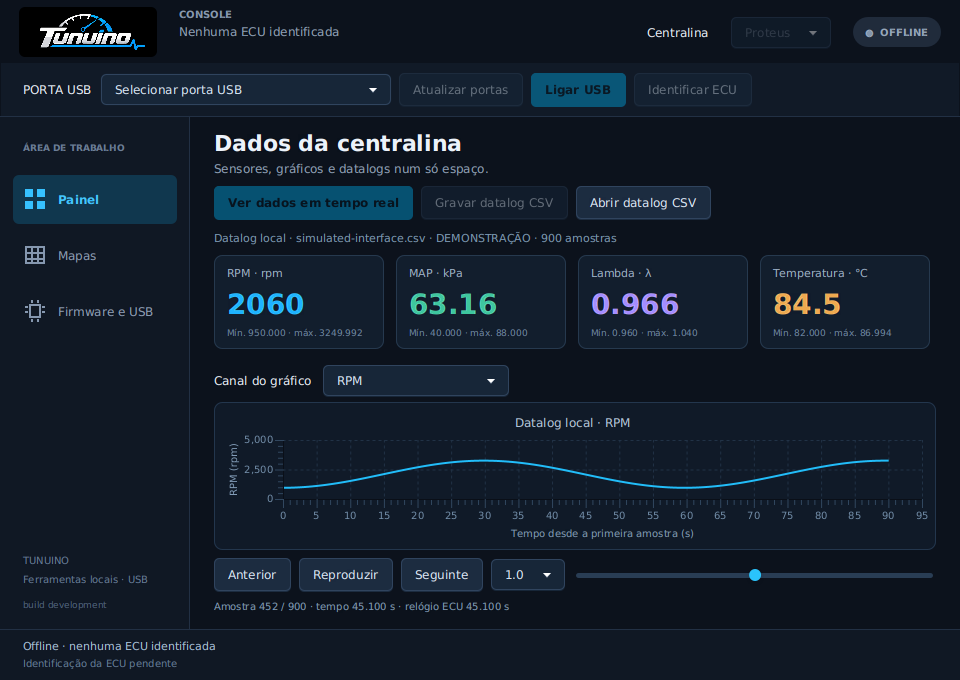
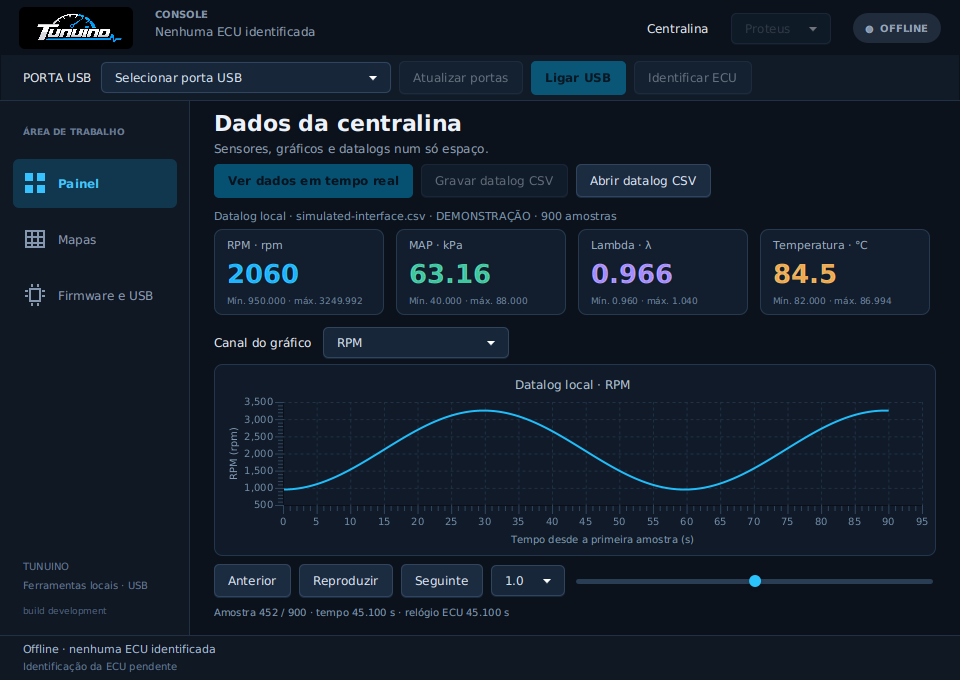
Record passing Windows interface checks and refresh the compact preview

diff --git a/console-visual.md b/console-visual.md
@@ -1,6 +1,6 @@
 # Aspeto da Tunuino Console
 
-Revisão de 25 de outubro de 2026. A interface foi implementada e verificada localmente; está preparada para integração no repositório principal. As imagens desta página são capturas da aplicação JavaFX real com dados de demonstração, sem ligação a uma ECU.
+Revisão de 25 de outubro de 2026. A interface foi implementada e passou nos testes desktop e no runtime Windows do pacote; está preparada para integração no repositório principal. As imagens desta página são capturas da aplicação JavaFX real com dados de demonstração, sem ligação a uma ECU.
 
 ## Painel
 
@@ -14,7 +14,7 @@ Os quatro indicadores mostram RPM, MAP, lambda e temperatura. O gráfico permite
 
 ## Janelas pequenas
 
-O cabeçalho, a tipografia e os espaçamentos adaptam-se à altura disponível. Os quatro indicadores, a navegação do datalog e a barra de estado foram verificados em 1060 × 720 e 960 × 680.
+O cabeçalho, a tipografia e os espaçamentos adaptam-se à altura disponível. Os quatro indicadores, a navegação do datalog e a barra de estado foram verificados em 1060 × 720 e 960 × 680. A disposição também se adapta a uma área útil de 640 píxeis de altura, contando com a moldura e a barra de título do Windows.
 
 ![Interface compacta a 960 por 680](images/console/compacta.png)
 
@@ -34,8 +34,8 @@ Os controlos estão organizados em imagem de firmware, dispositivo USB e registo
 
 - Suite portátil C/Java aprovada, incluindo monitorização contra o simulador C real, início/fim de vários CSV, indisponibilidade/recuperação de sensores, recuo do relógio e preservação de ficheiros parciais.
 - Aplicação JavaFX executada localmente: navegação entre áreas, tema e logótipo, seleção de canais, cursor, reprodução, ausência de dados, dimensões compactas e editor de mapas.
-- Verificação da interface acrescentada aos workflows desktop e Windows. O ensaio Windows usa o Java do pacote distribuído e guarda capturas como artefactos de CI.
+- A [execução 40184638618](https://github.com/Tunuino/Tunuino/actions/runs/40184638618) aprovou GCC, Clang, ARM, TunerStudio, desktop/JavaFX e Windows. O ensaio Windows executa a interface real com o Java do pacote distribuído, incluindo os controlos e o rodapé em janelas pequenas; guarda capturas como artefactos de CI.
 
 O firmware F427 distribuído continua a ser o perfil USB de bancada, sem aquisição física de sensores nem controlo de motor. As novas imagens não demonstram medições numa ECU. O ensaio físico desta revisão da Console continua pendente; a confirmação USB anterior não valida automaticamente as novas funções.
 
-[Gravação de firmware](console-firmware-usb.md) · [Estrutura e funções](estrutura-e-funcoes.md) · [Workflows](workflows.md).
+[Código em revisão](https://github.com/Tunuino/Tunuino/pull/1) · [Gravação de firmware](console-firmware-usb.md) · [Estrutura e funções](estrutura-e-funcoes.md) · [Workflows](workflows.md).
